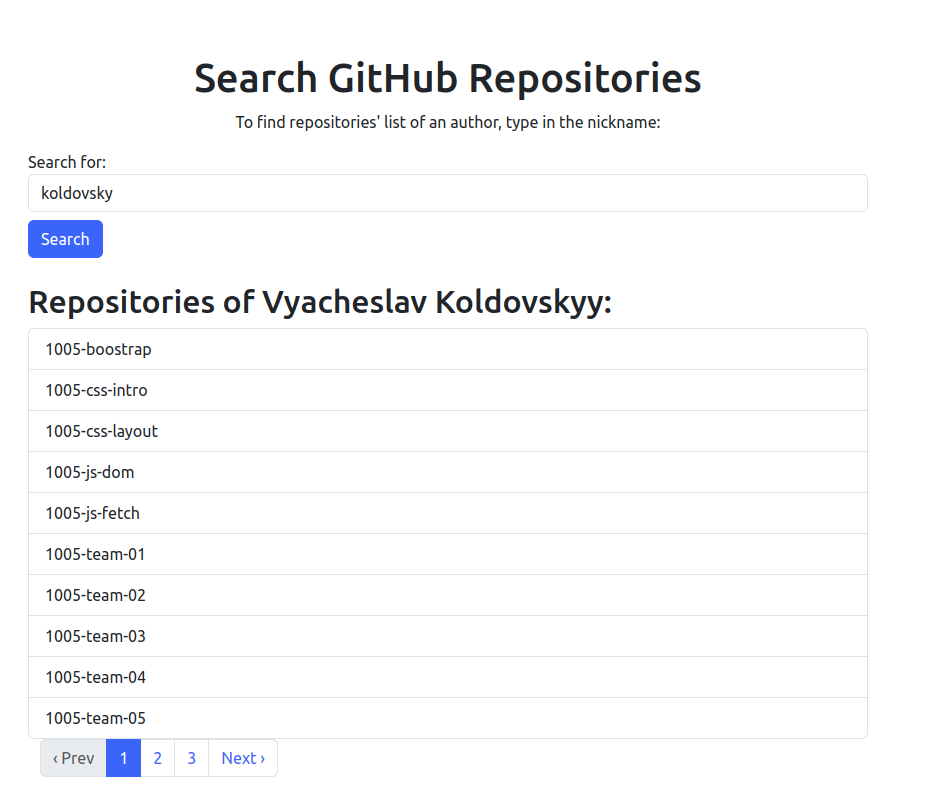
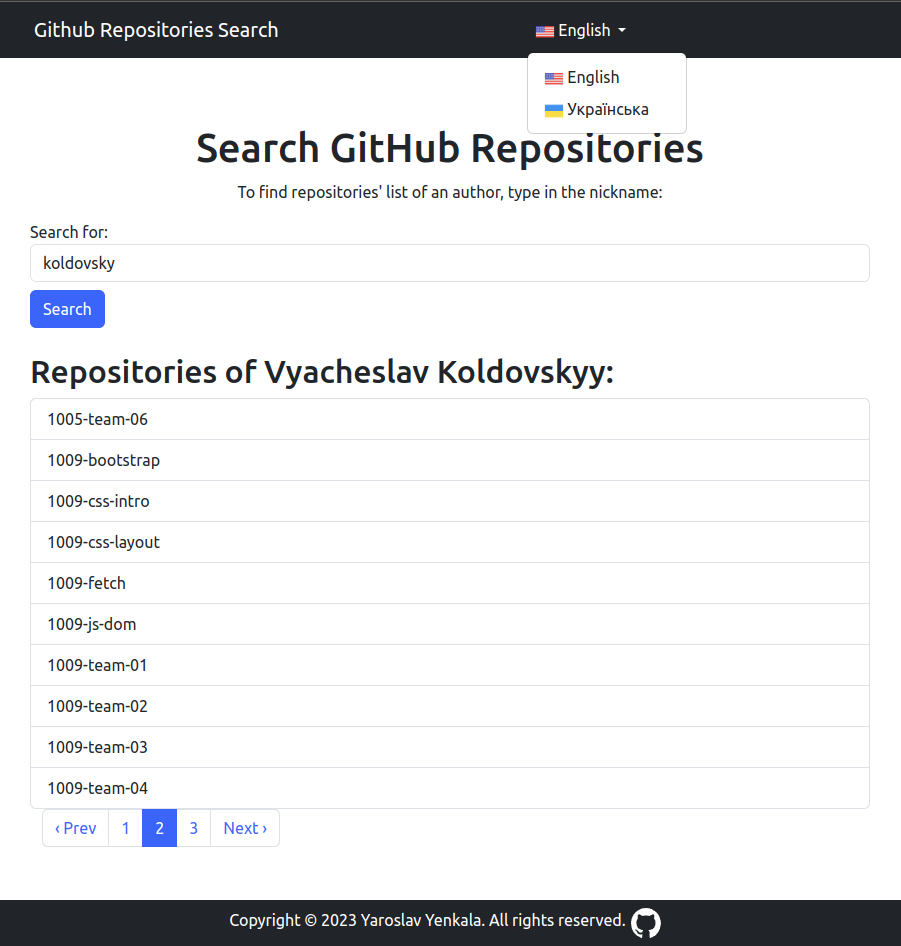
Feature/add i18n (#17)
* Add header with i18n

* Add locale switch to routes

* Add footer

* Fix little screen show

diff --git a/app/assets/stylesheets/_footer.scss b/app/assets/stylesheets/_footer.scss
@@ -1,0 +1,16 @@
+.footer-container {
+  display: flex;
+  justify-content: center;
+  flex-direction: row;
+}
+
+.footer-item {
+  margin-right: 5px;
+  align-self: flex-start;
+}
+
+.footer-image {
+  width: 30px;
+  height: 30px;
+  margin-right: 5px;
+}

diff --git a/app/assets/stylesheets/application.bootstrap.scss b/app/assets/stylesheets/application.bootstrap.scss
@@ -1,2 +1,3 @@
 @import 'bootstrap/scss/bootstrap';
 @import 'bootstrap-icons/font/bootstrap-icons';
+@import 'footer';

diff --git a/app/controllers/concerns/internationalization.rb b/app/controllers/concerns/internationalization.rb
@@ -1,0 +1,65 @@
+# frozen_string_literal: true
+
+module Internationalization
+  extend ActiveSupport::Concern
+
+  # rubocop:disable Metrics/BlockLength
+  included do
+    around_action :switch_locale
+
+    private
+
+    def switch_locale(&)
+      locale = locale_from_url || locale_from_headers || I18n.default_locale
+      response.set_header('Content-Language', locale)
+      I18n.with_locale(locale, &)
+    end
+
+    # Adapted from https://github.com/rack/rack-contrib/blob/main/lib/rack/contrib/locale.rb
+    # rubocop:disable all
+    def locale_from_url
+      locale = params[:locale]
+
+      return locale if I18n.available_locales.map(&:to_s).include?(locale)
+
+      nil
+    end
+
+    def locale_from_headers
+      header = request.env['HTTP_ACCEPT_LANGUAGE']
+
+      return if header.nil?
+
+      reading_from_headers
+      locales = header.gsub(/\s+/, '').split(',').map do |language_tag|
+        locale, quality = language_tag.split(/;q=/i)
+        quality = quality ? quality.to_f : 1.0
+        [locale, quality]
+      end.reject do |(locale, quality)|
+        locale == '*' || quality.zero?
+      end.sort_by do |(_, quality)|
+        quality
+      end.map(&:first)
+
+      return if locales.empty?
+
+      if I18n.enforce_available_locales
+        locale = locales.reverse.find { |locale| I18n.available_locales.any? { |al| match?(al, locale) } }
+        I18n.available_locales.find { |al| match?(al, locale) } if locale
+      else
+        locales.last
+      end
+    end
+
+    def reading_from_headers; end
+
+    def default_url_options
+      { locale: I18n.locale }
+    end
+
+    def match?(s1, s2)
+      s1.to_s.casecmp(s2.to_s).zero?
+    end
+    # rubocop:enable all
+  end
+end

diff --git a/app/interactors/home/index/search.rb b/app/interactors/home/index/search.rb
@@ -15,6 +15,8 @@ module Home
         handle_error(I18n.t('errors.search.network_error', message: e.message))
       rescue JSON::ParserError => e
         handle_error(I18n.t('errors.search.json_parsing_error', message: e.message))
+      rescue URI::InvalidURIError => e
+        handle_error(I18n.t('errors.search.invalid_uri_error', message: e.message))
       end
 
       private

diff --git a/config/application.rb b/config/application.rb
@@ -24,6 +24,7 @@ module GithubSearcherByNickname
   class Application < Rails::Application
     # Initialize configuration defaults for originally generated Rails version.
     config.load_defaults 7.0
+    config.i18n.available_locales = %i[en uk]
 
     # Configuration for the application, engines, and railties goes here.
     #

diff --git a/config/routes.rb b/config/routes.rb
@@ -1,6 +1,8 @@
 # frozen_string_literal: true
 
 Rails.application.routes.draw do
-  root 'home#index'
-  resources :home, only: [:index]
+  scope '(:locale)', locale: /#{I18n.available_locales.join('|')}/ do
+    root 'home#index'
+    resources :home, only: [:index]
+  end
 end

diff --git a/app/helpers/locale_flag.rb b/app/helpers/locale_flag.rb
@@ -1,0 +1,12 @@
+# frozen_string_literal: true
+
+module LocaleFlag
+  LOCALE_TO_FLAG = {
+    en: 'us',
+    uk: 'ua'
+  }.freeze
+
+  def flag_code(locale)
+    LOCALE_TO_FLAG[locale.to_sym]
+  end
+end

diff --git a/app/controllers/application_controller.rb b/app/controllers/application_controller.rb
@@ -2,4 +2,5 @@
 
 class ApplicationController < ActionController::Base
   include Pagy::Backend
+  include Internationalization
 end

diff --git a/app/helpers/application_helper.rb b/app/helpers/application_helper.rb
@@ -2,4 +2,5 @@
 
 module ApplicationHelper
   include Pagy::Frontend
+  include LocaleFlag
 end
